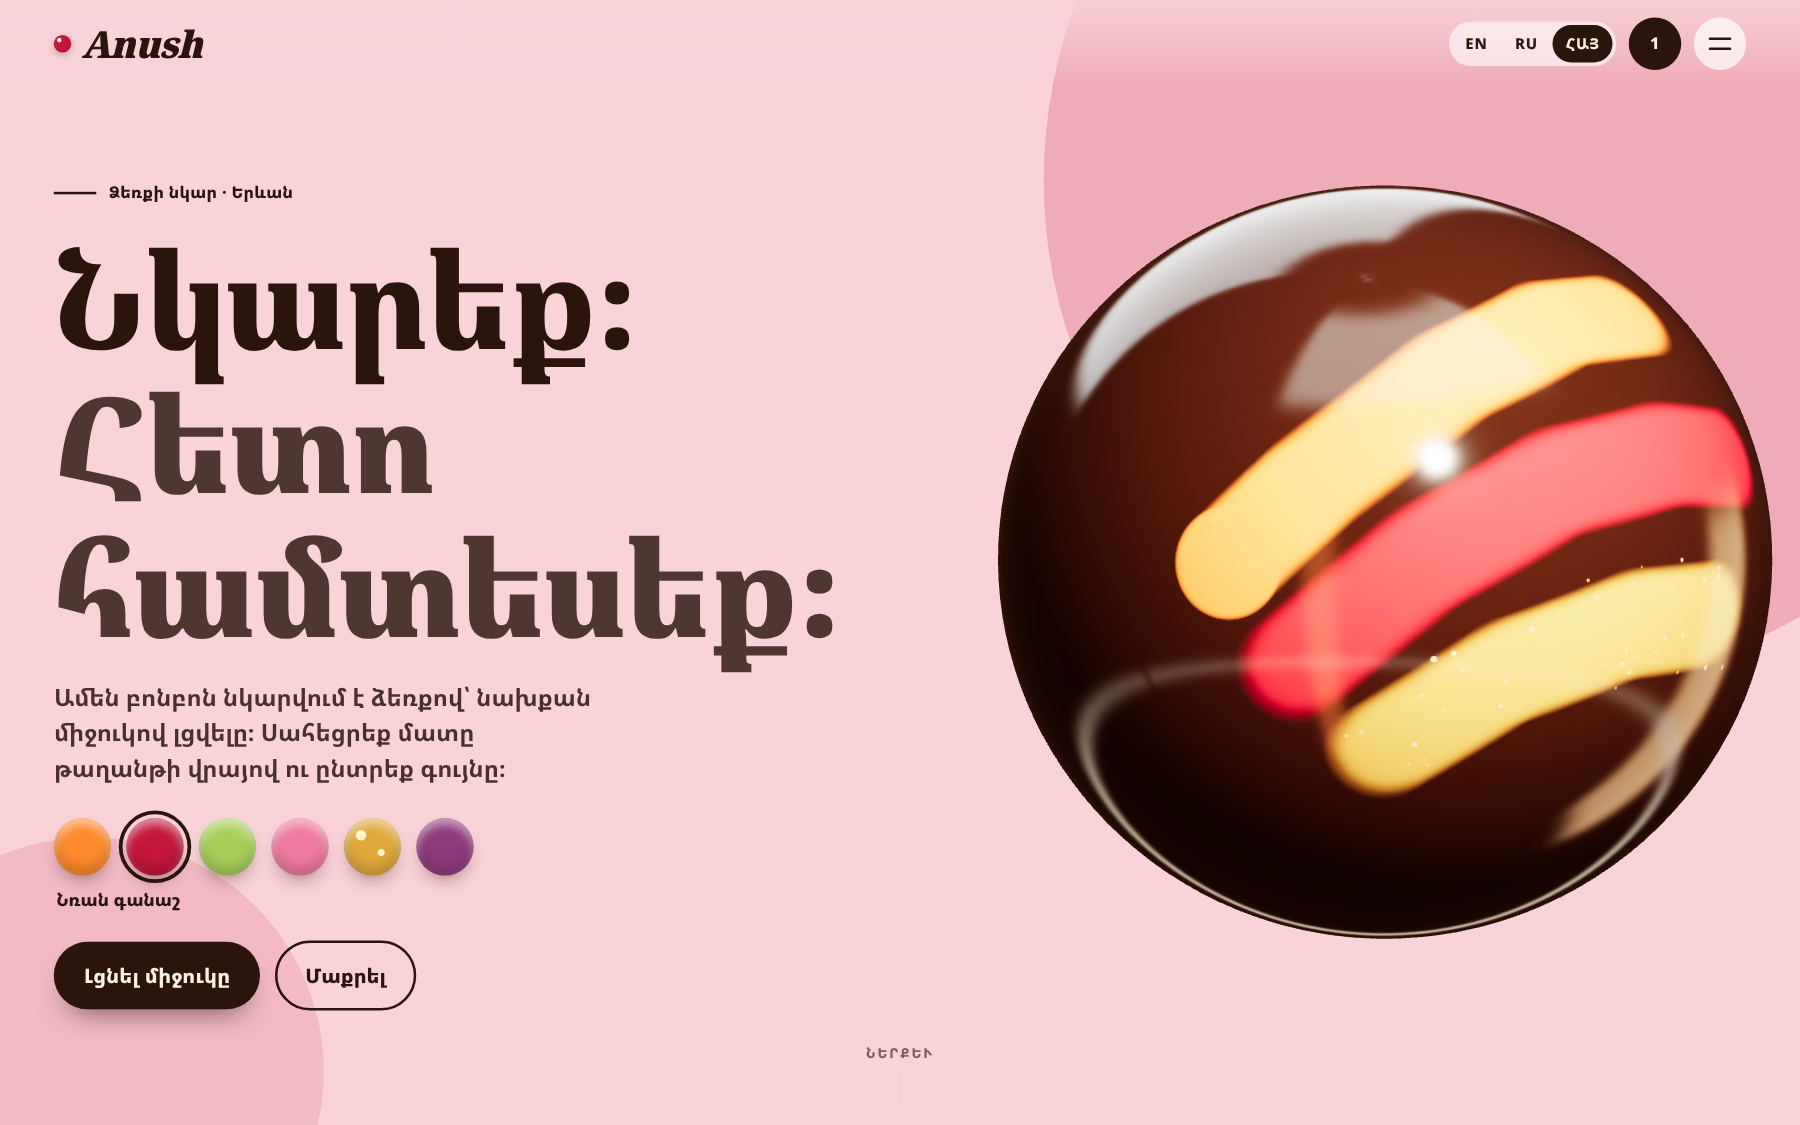
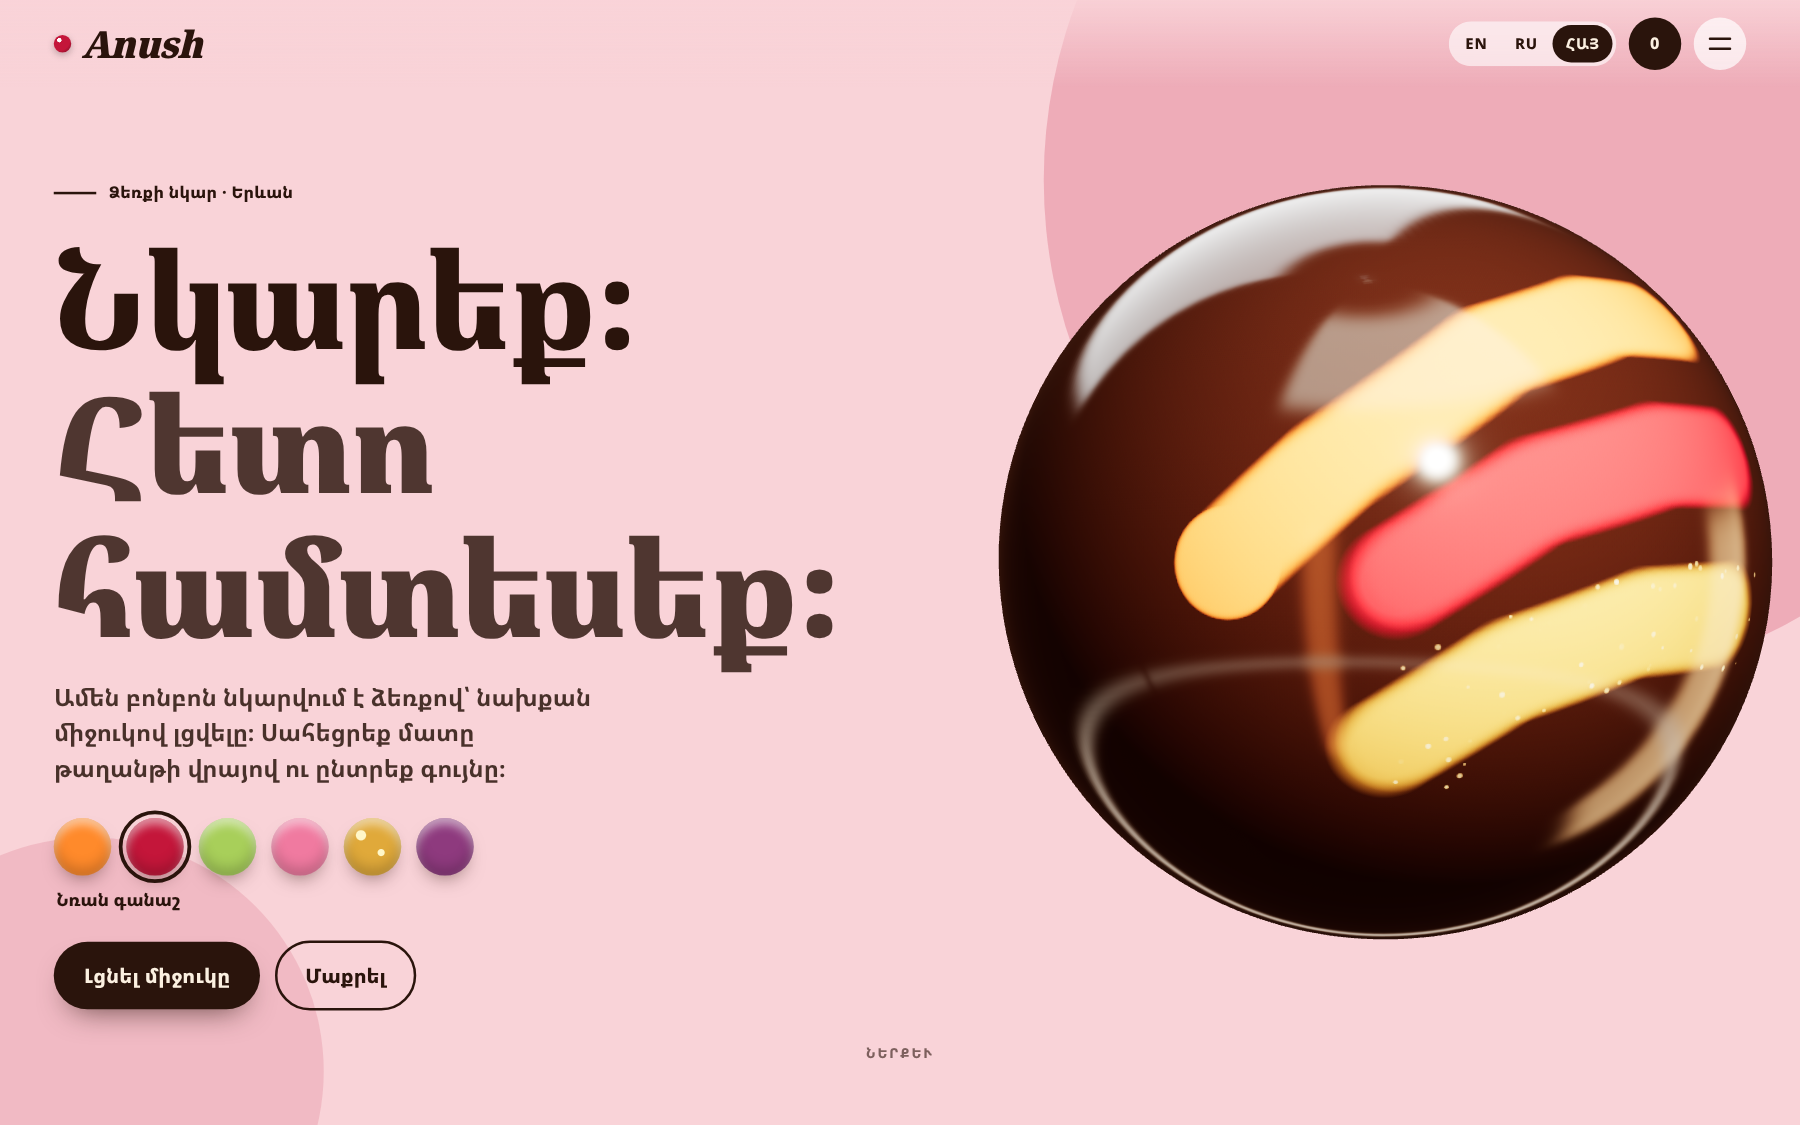
Showcase: 18 features x desktop/phone screenshots, Armenian mobile hero fix, capture script filter
Claude-Session: https://claude.ai/code/session_018Z3iXuY9cTnqaJUe9QWTn8

diff --git a/scripts/capture.js b/scripts/capture.js
@@ -3,7 +3,7 @@
 // Needs Playwright (globally installed or in node_modules).
 const { chromium } = require('playwright');
 const path = require('path');
-const [, , ORIGIN = 'http://localhost:8124', OUT = 'showcase/screens'] = process.argv;
+const [, , ORIGIN = 'http://localhost:8124', OUT = 'showcase/screens', ONLY] = process.argv; // ONLY: optional feature-name prefix, e.g. 10-
 
 const FEATURES = [
   ['01-hero-paint', async (p, m) => { await p.goto(`${ORIGIN}/en/`, { waitUntil: 'networkidle' }); await p.waitForTimeout(6500); await stroke(p, m, 3); }],
@@ -15,7 +15,7 @@ const FEATURES = [
   ['07-bonbon-page', async (p, m) => { await p.goto(`${ORIGIN}/en/collection/pomegranate-ganache/`, { waitUntil: 'networkidle' }); await p.waitForTimeout(2600); }],
   ['08-flavour-finder', async (p, m) => { await p.goto(`${ORIGIN}/en/finder/`, { waitUntil: 'networkidle' }); for (let i = 0; i < 5; i++) { await p.locator('.qa button').nth([0, 2, 0, 1, 0][i]).click(); await p.waitForTimeout(250); } await p.waitForTimeout(1200); }],
   ['09-occasions', async (p, m) => { await p.goto(`${ORIGIN}/en/occasions/`, { waitUntil: 'networkidle' }); await p.waitForTimeout(800); }],
-  ['10-gift-yerevan', async (p, m) => { await p.goto(`${ORIGIN}/en/gift/`, { waitUntil: 'networkidle' }); await p.fill('input[required] >> nth=0', 'Ani Petrosyan'); await p.waitForTimeout(500); }],
+  ['10-gift-yerevan', async (p, m) => { await p.goto(`${ORIGIN}/en/gift/`, { waitUntil: 'networkidle' }); await p.locator('.fld', { hasText: 'Recipient name' }).locator('input').fill('Ani Petrosyan'); await p.locator('.fld', { hasText: 'Address in Yerevan' }).locator('input').fill('Tumanyan 12, Yerevan'); await p.locator('.chk input').check(); await p.waitForTimeout(500); }],
   ['11-gift-diaspora', async (p, m) => { await p.goto(`${ORIGIN}/en/gift/`, { waitUntil: 'networkidle' }); await p.locator('.tabs button').nth(1).click(); await p.locator('.curs button', { hasText: 'USD' }).click(); await p.waitForTimeout(600); }],
   ['12-corporate', async (p, m) => { await p.goto(`${ORIGIN}/en/corporate/`, { waitUntil: 'networkidle' }); await p.fill('input[maxlength="28"]', 'Nairit Group'); await p.fill('input[type=number]', '120'); await p.waitForTimeout(700); }],
   ['13-workshops', async (p, m) => { await p.goto(`${ORIGIN}/en/workshops/`, { waitUntil: 'networkidle' }); await p.locator('.calgrid button.has').nth(1).click(); await p.locator('.slots button:not([disabled])').first().click(); await p.waitForTimeout(600); }],
@@ -47,7 +47,7 @@ async function build(p, m, close) {
   const b = await chromium.launch({ args: ['--use-gl=swiftshader', '--enable-unsafe-swiftshader', '--ignore-gpu-blocklist', '--no-sandbox'] });
   for (const [kind, vp, dsf, mob] of [['desktop', { width: 1440, height: 900 }, 1.25, false], ['phone', { width: 390, height: 844 }, 2, true]]) {
     const ctx = await b.newContext({ viewport: vp, deviceScaleFactor: dsf, hasTouch: mob, isMobile: mob });
-    for (const [name, fn] of FEATURES) {
+    for (const [name, fn] of FEATURES.filter(([n]) => !ONLY || n.startsWith(ONLY))) {
       const p = await ctx.newPage(); const errs = [];
       p.on('pageerror', (e) => errs.push(e.message));
       try { await fn(p, mob); await p.screenshot({ path: path.join(OUT, kind, `${name}.png`) }); console.log(kind, name, errs.length ? 'ERR ' + errs.join('|') : 'ok'); }

diff --git a/app/globals.css b/app/globals.css
@@ -304,3 +304,4 @@ input[type=range]{accent-color:var(--cocoa);padding:0;background:none;height:32p
 @media (max-width:1560px){html:lang(hy) .tag{display:none}}
 @media (max-width:1480px){html:lang(ru) .tag{display:none}}
 @media (max-width:1250px){.tag{display:none}}
+@media (max-width:760px){html:lang(hy) .hero h1{font-size:clamp(32px,9.6vw,46px)}html:lang(hy) .hero .eyebrow{margin-bottom:8px}}
